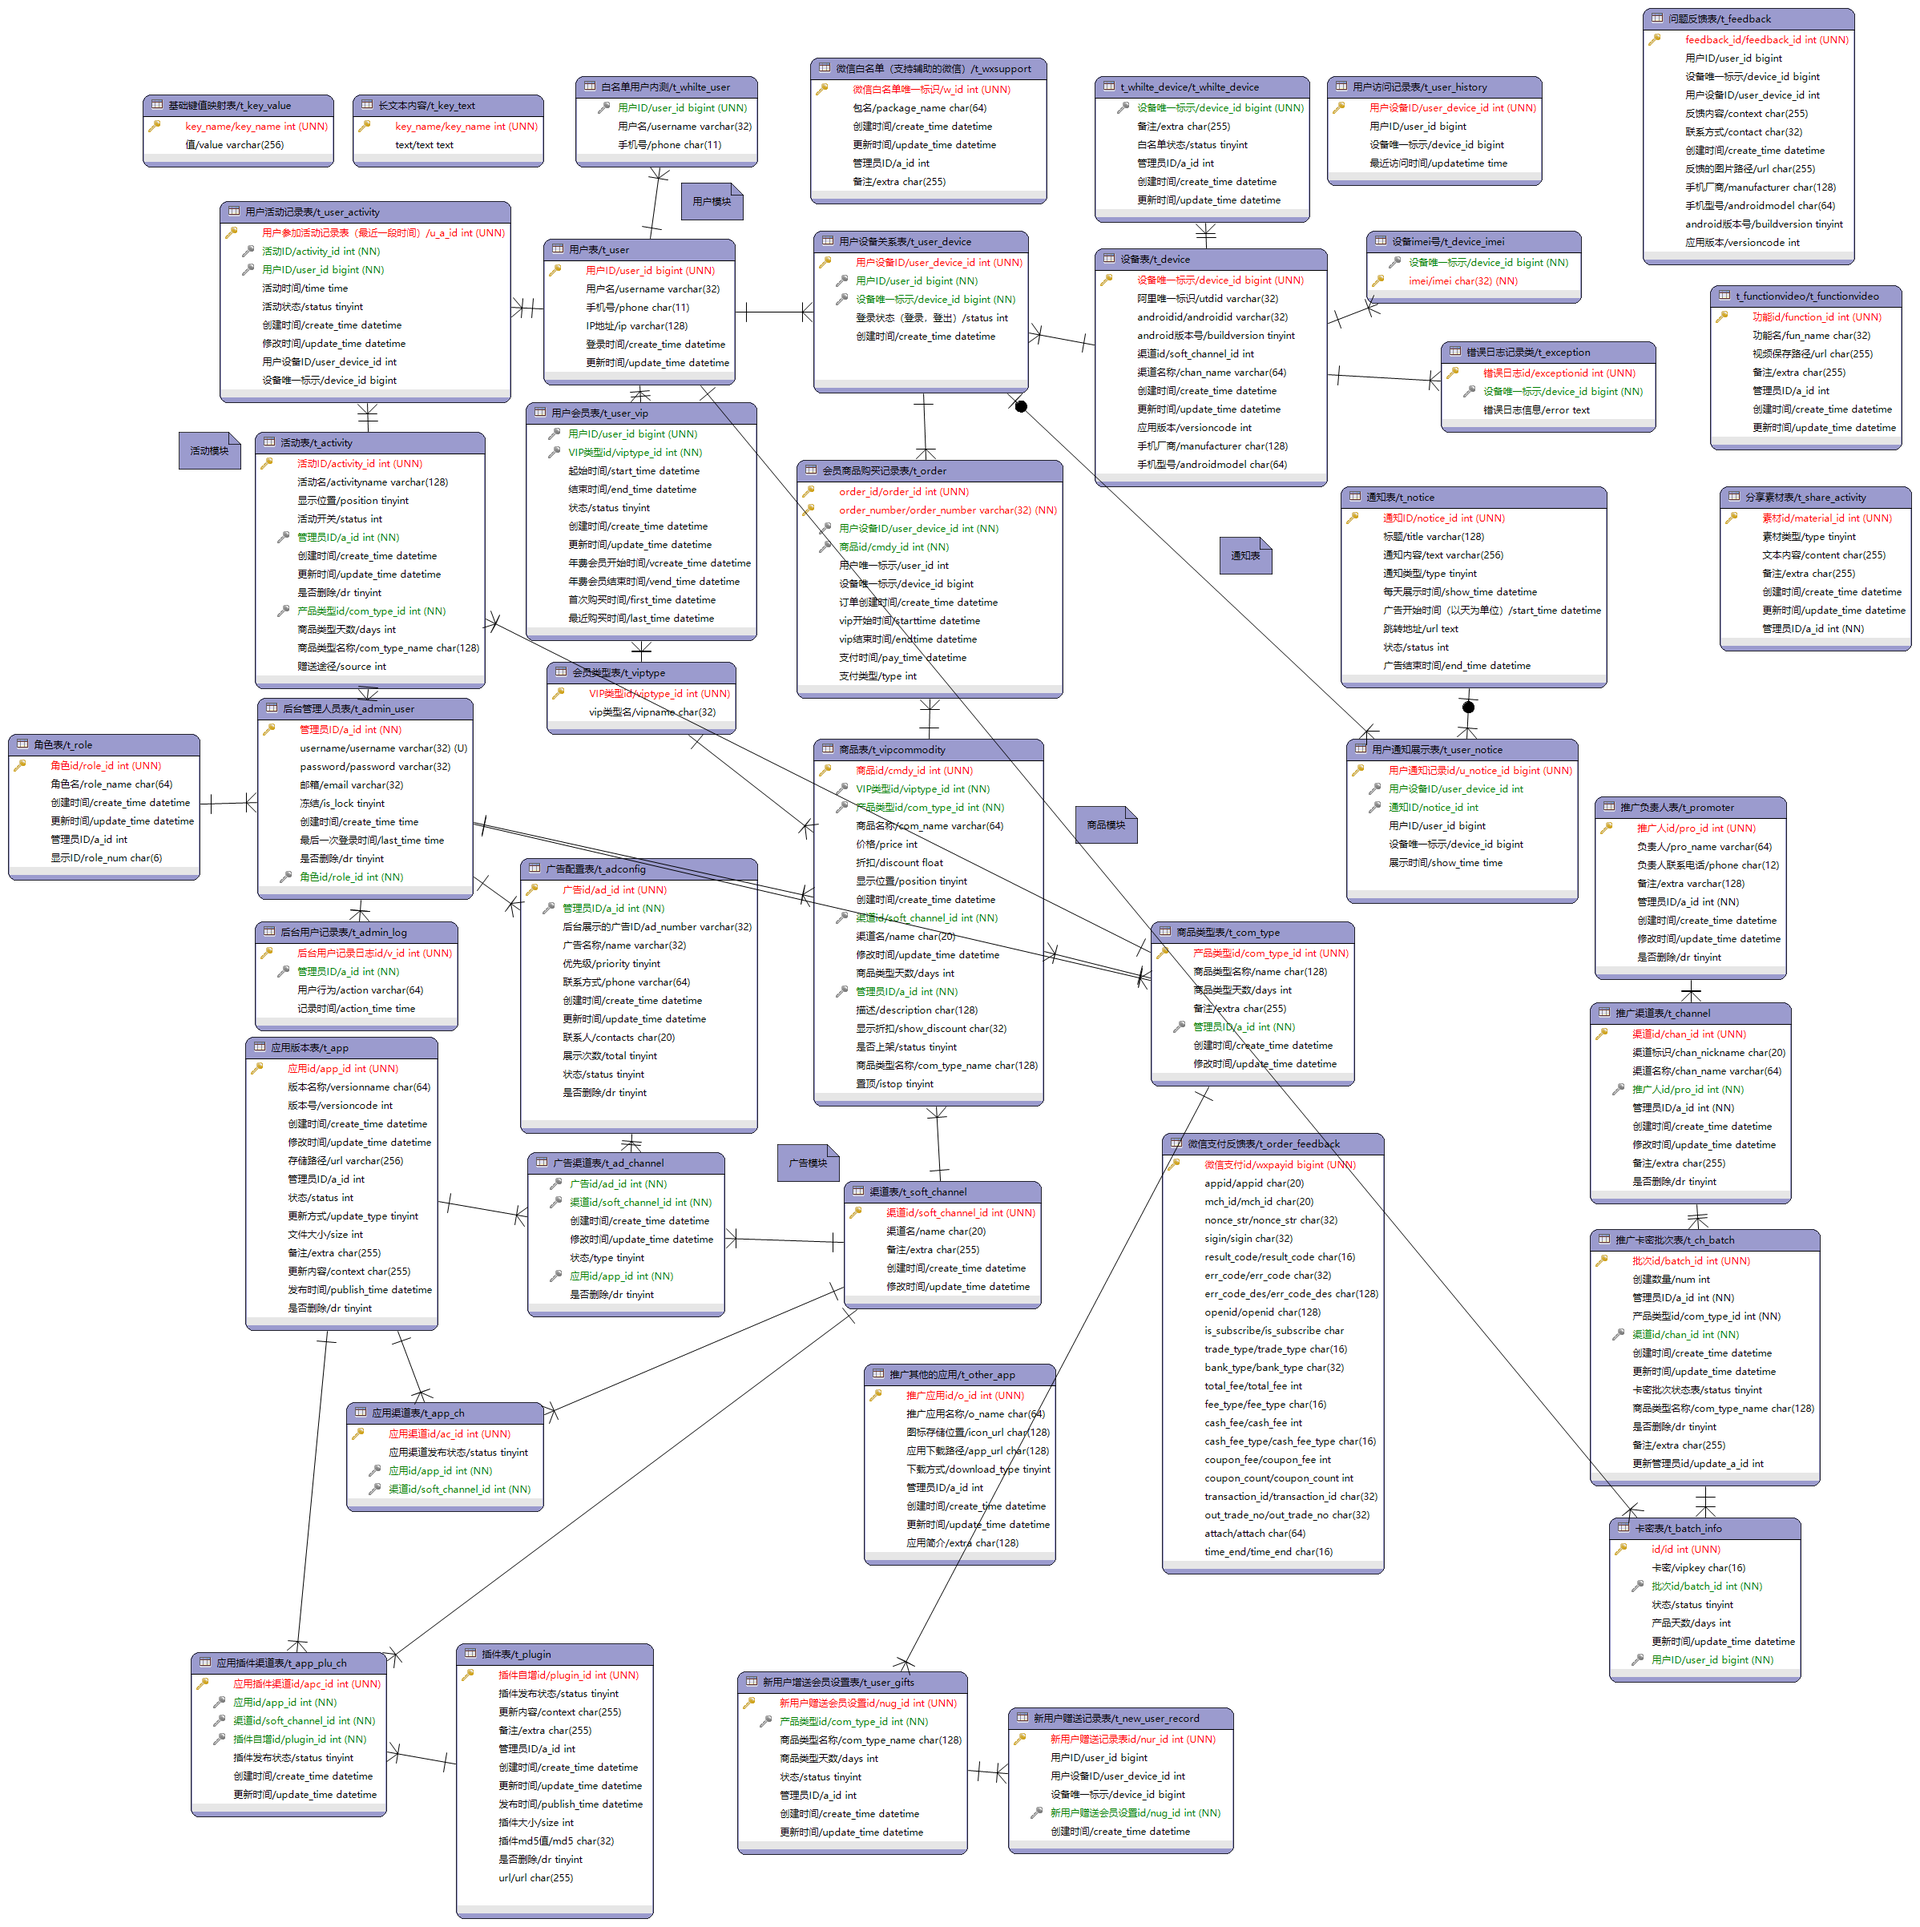
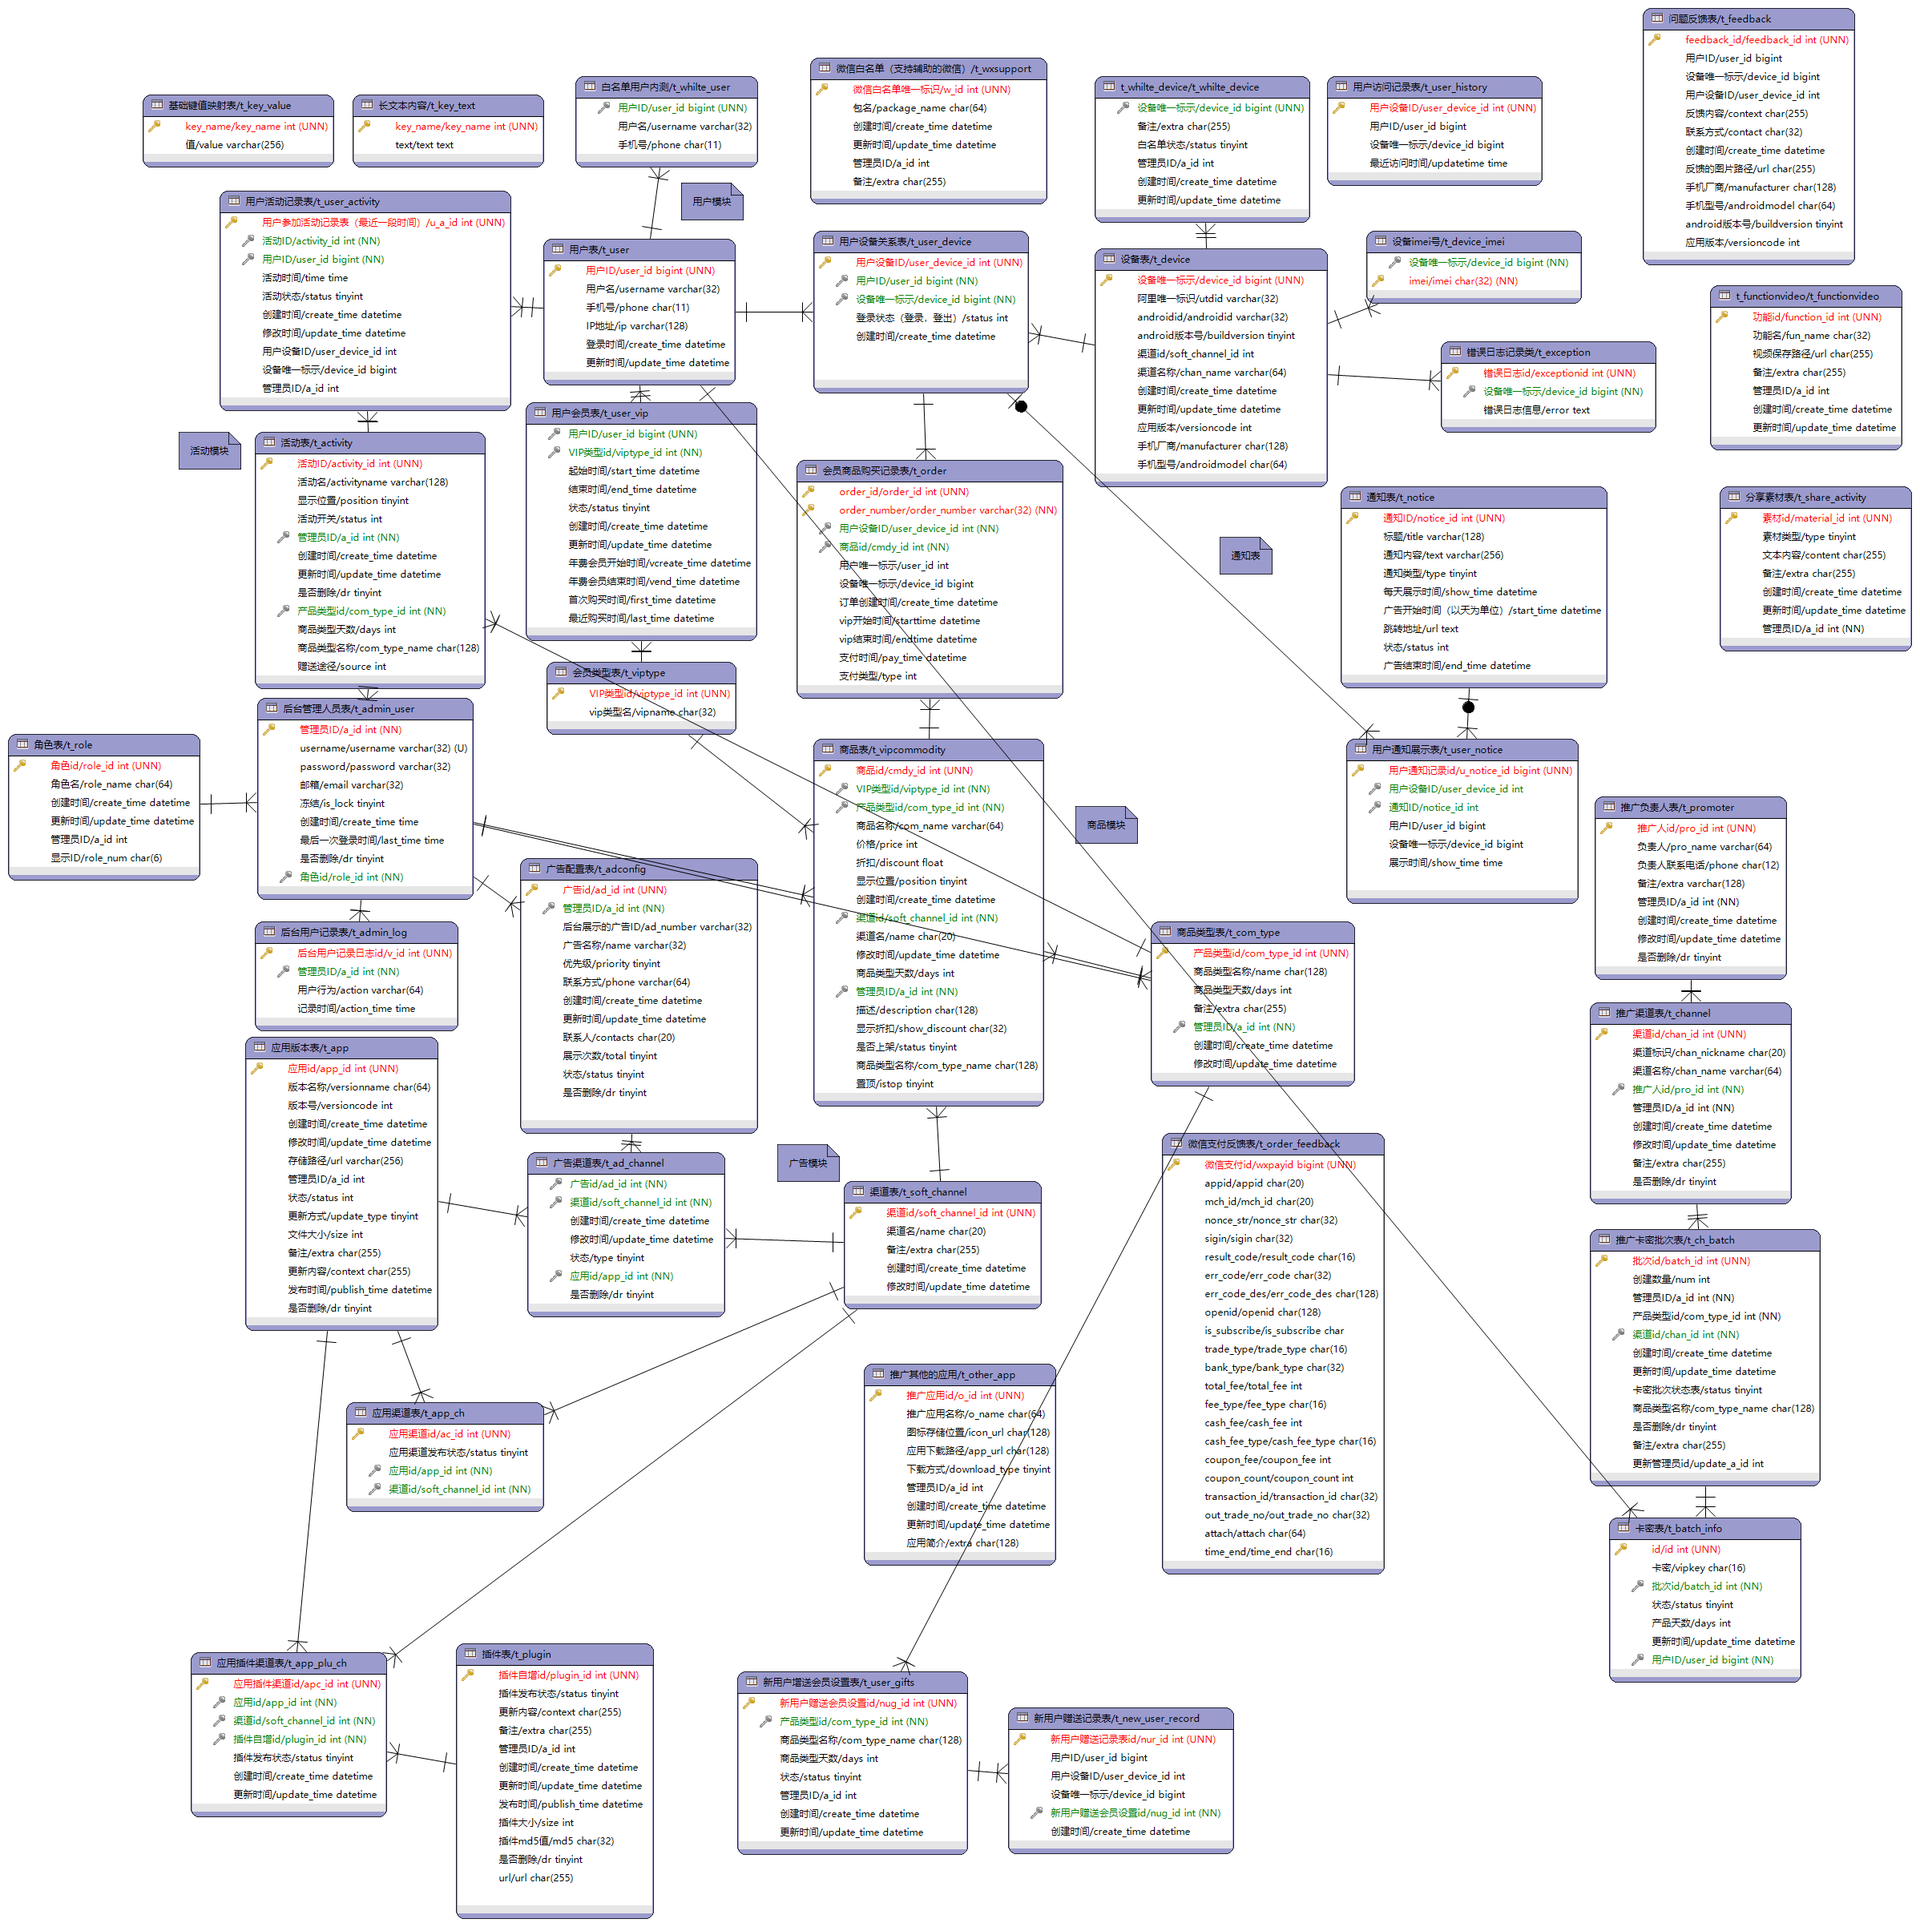
t_user_activity table add a_id column

Changed region(s): [[0.0927, 0.0936, 0.278, 0.2183]]

diff --git a/smartweb/src/main/java/com/rpa/web/pojo/UserActivityPO.java b/smartweb/src/main/java/com/rpa/web/pojo/UserActivityPO.java
@@ -17,7 +17,7 @@ public class UserActivityPO implements Serializable {
     private Date time;
 
     /**
-     * 当活动存在多个执行状态时，默认为0
+     * 当活动存在多个执行状态时，默认为1     10 通过   20 驳回
      */
     private Byte status;
 
@@ -28,6 +28,8 @@ public class UserActivityPO implements Serializable {
     private Integer userDeviceId;
 
     private Long deviceId;
+
+    private Integer aId;
 
     private static final long serialVersionUID = 1L;
 
@@ -103,6 +105,14 @@ public class UserActivityPO implements Serializable {
         this.deviceId = deviceId;
     }
 
+    public Integer getaId() {
+        return aId;
+    }
+
+    public void setaId(Integer aId) {
+        this.aId = aId;
+    }
+
     @Override
     public boolean equals(Object that) {
         if (this == that) {
@@ -123,7 +133,8 @@ public class UserActivityPO implements Serializable {
             && (this.getCreateTime() == null ? other.getCreateTime() == null : this.getCreateTime().equals(other.getCreateTime()))
             && (this.getUpdateTime() == null ? other.getUpdateTime() == null : this.getUpdateTime().equals(other.getUpdateTime()))
             && (this.getUserDeviceId() == null ? other.getUserDeviceId() == null : this.getUserDeviceId().equals(other.getUserDeviceId()))
-            && (this.getDeviceId() == null ? other.getDeviceId() == null : this.getDeviceId().equals(other.getDeviceId()));
+            && (this.getDeviceId() == null ? other.getDeviceId() == null : this.getDeviceId().equals(other.getDeviceId()))
+            && (this.getaId() == null ? other.getaId() == null : this.getaId().equals(other.getaId()));
     }
 
     @Override
@@ -139,6 +150,7 @@ public class UserActivityPO implements Serializable {
         result = prime * result + ((getUpdateTime() == null) ? 0 : getUpdateTime().hashCode());
         result = prime * result + ((getUserDeviceId() == null) ? 0 : getUserDeviceId().hashCode());
         result = prime * result + ((getDeviceId() == null) ? 0 : getDeviceId().hashCode());
+        result = prime * result + ((getaId() == null) ? 0 : getaId().hashCode());
         return result;
     }
 
@@ -157,6 +169,7 @@ public class UserActivityPO implements Serializable {
         sb.append(", updateTime=").append(updateTime);
         sb.append(", userDeviceId=").append(userDeviceId);
         sb.append(", deviceId=").append(deviceId);
+        sb.append(", aId=").append(aId);
         sb.append(", serialVersionUID=").append(serialVersionUID);
         sb.append("]");
         return sb.toString();
